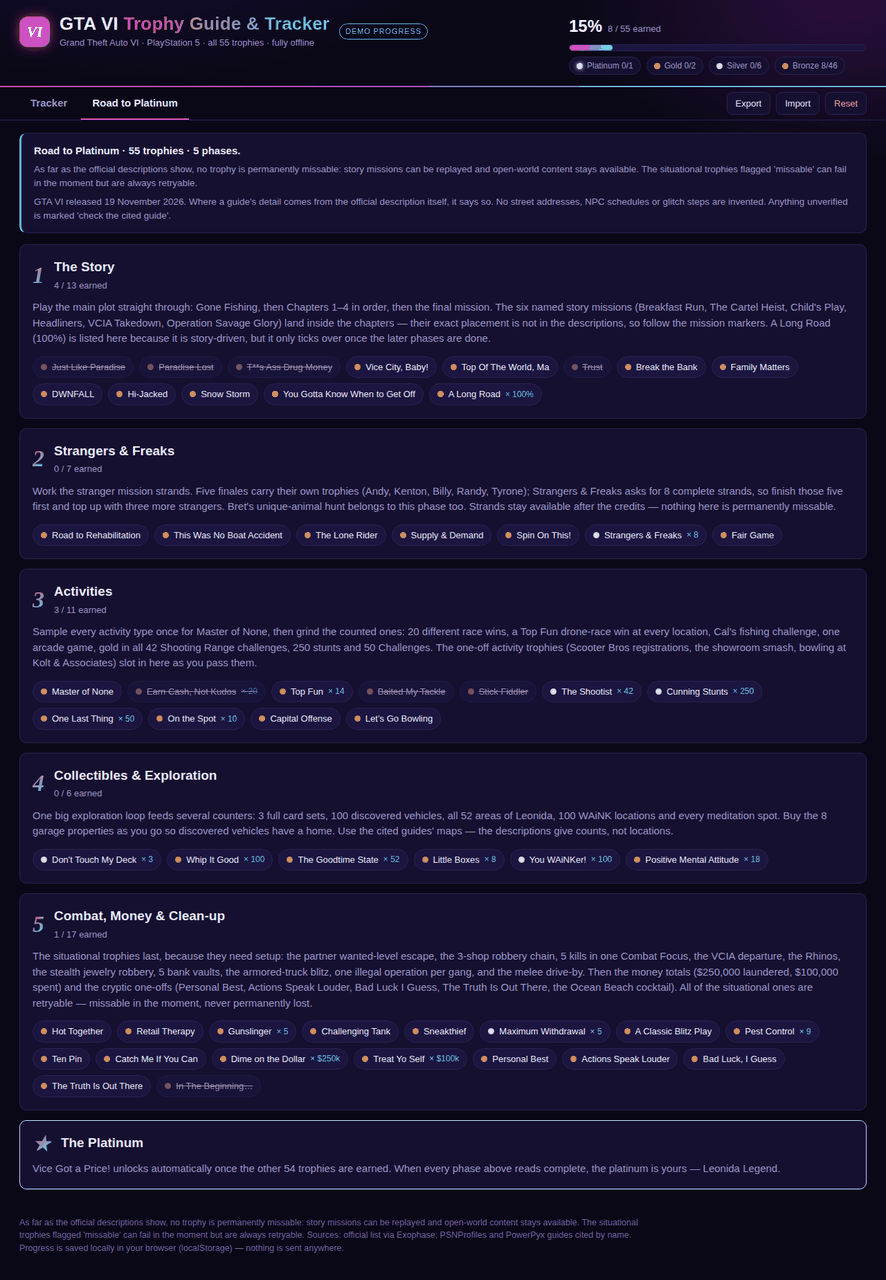
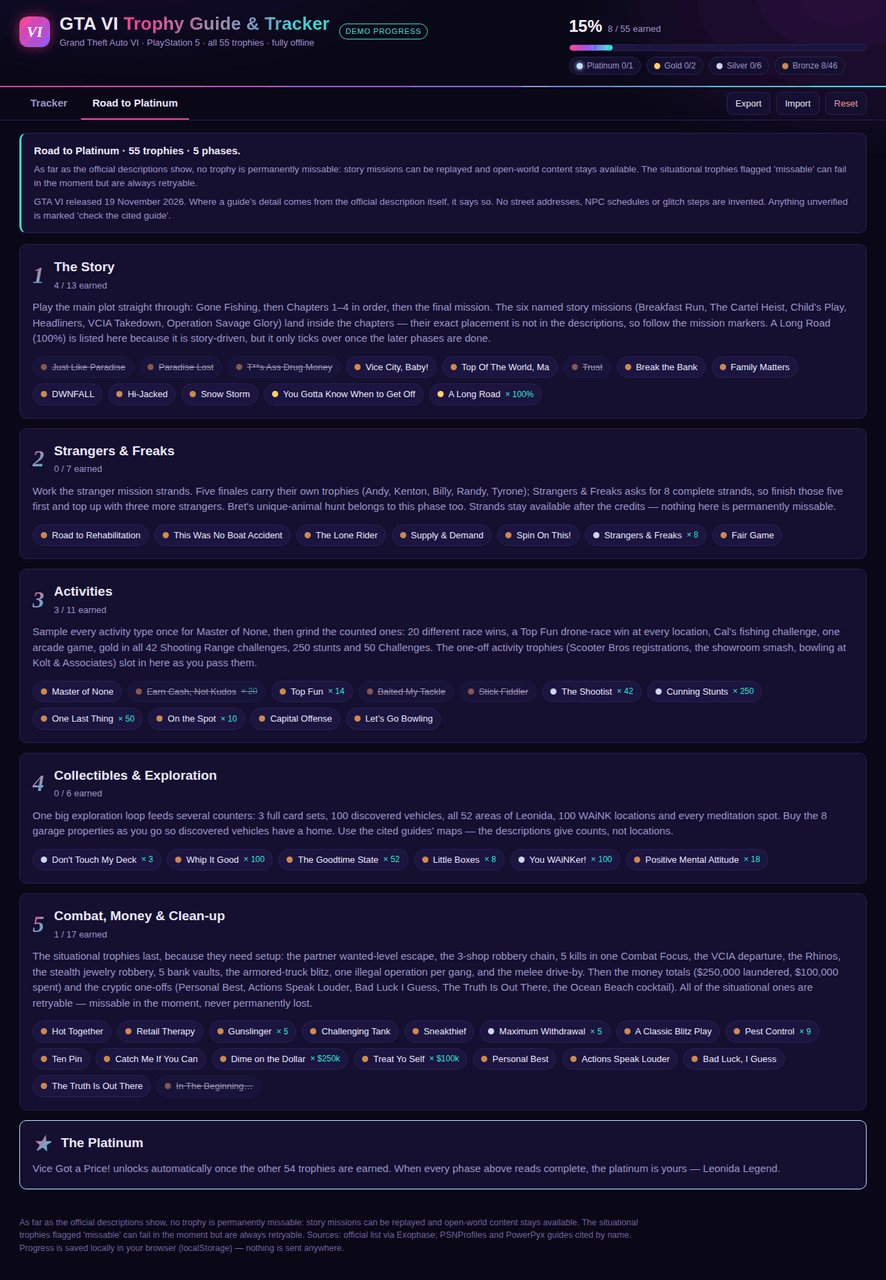
Rebuild (attempt 4): Hermes-recorded rebuild from an empty tree — every file written fresh in-session (data, app, plumbing, vendor, screenshots, revision pass)

diff --git a/app/src/app.js b/app/src/app.js
@@ -271,8 +271,8 @@
     $('viewRoadmap').hidden = tracker;
   }
 
-  // Repaints the whole view from current state: header progress/grade chips,
-  // the filtered trophy checklist, the selected trophy's detail panel, and the roadmap.
+  // Redraws the whole UI from the current state: progress header, filtered
+  // trophy list, the selected trophy's guide panel, and the roadmap phases.
   function render() {
     renderHeader();
     renderList();

diff --git a/app/index.html b/app/index.html
@@ -8,7 +8,7 @@
 <link rel="stylesheet" href="style.css">
 </head>
 <body>
-<!-- Fully offline: every guide, script and style ships in this folder; the app never makes network requests. -->
+<!-- This guide works fully offline: no network requests, all data and progress stay on this device. -->
 <header class="top">
   <div class="brand">
     <div class="logo" aria-hidden="true">VI</div>

diff --git a/main.ts b/main.ts
@@ -31,5 +31,5 @@ const dossier = buildDossier(outDir, {
 });
 
 writeFileSync(join(outDir, 'dossier.json'), dossier);
+console.log('dossier.json size on disk:', statSync(join(outDir, 'dossier.json')).size, 'bytes');
 console.log('wrote', join(outDir, 'dossier.json'));
-console.log('dossier.json is', statSync(join(outDir, 'dossier.json')).size, 'bytes on disk');
